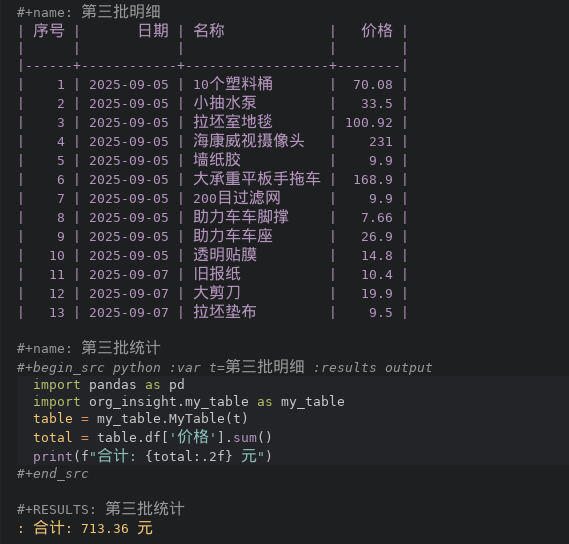
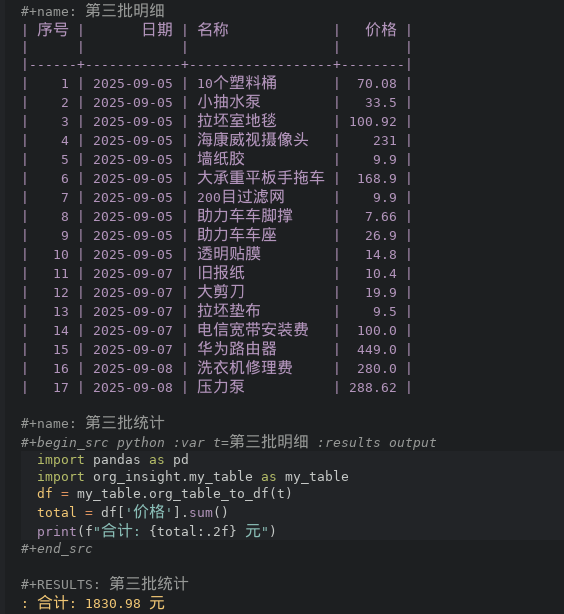
修改第二个例子，增加函数org_table_to_df, 简化使用

Changed region(s): [[0.0301, 0.0, 0.7535, 1.0], [0.6933, 0.7188, 0.7535, 0.75]]

diff --git a/org_insight/my_table.py b/org_insight/my_table.py
@@ -239,6 +239,18 @@ def toOrgTable(df, showRowNum=10):
     return result
 
 
+"""
+负责读取org table的数据
+转化成DataFrame后
+"""
+def org_table_to_df(table=None):
+    """
+    table是org src block的变量，代表org table, 实际上是一个list<list>结构
+    """
+    return MyTable(table).df
+
+
+                
 def convertToInt(e):
     s = str(e)
     if s in ['', 'None']:
